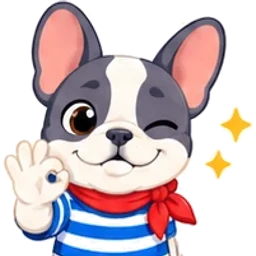
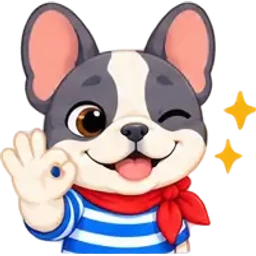
Thay 20 sticker Leon bằng bộ ảnh mới chất lượng cao (nền trong suốt gốc, tách theo khối), thêm 4 cảm xúc mới: Thắc mắc, Quyết tâm, Vui quá, Mỉm cười

diff --git a/src/shared/leon.jsx b/src/shared/leon.jsx
@@ -29,6 +29,10 @@ export const STICKER = [
   ["yeah", () => tr("Yeah!", "Youpi !", "Yay!")],
   ["ok", () => tr("OK!", "D'accord !", "OK!")],
   ["phap", () => tr("Học tiếng Pháp cùng Fracile!", "Le français avec Fracile !", "French with Fracile!")],
+  ["hoi", () => tr("Thắc mắc", "Une question ?", "A question?")],
+  ["quyet-tam", () => tr("Quyết tâm!", "Déterminé !", "Determined!")],
+  ["cuoi-lon", () => tr("Vui quá!", "Trop content !", "So happy!")],
+  ["mim-cuoi", () => tr("Mỉm cười", "Sourire", "Smile")],
 ];
 const CO = new Set(STICKER.map((s) => s[0]).concat(["leon", "dau"]));
 export const nhanSticker = (id) => STICKER.find((s) => s[0] === id)?.[1]() ?? "Leon";
@@ -74,7 +78,7 @@ export function ChuCoSticker({ text, size = 72 }) {
 /* Bảng chọn sticker (giáo viên chèn vào nhận xét, học sinh gửi trong Hỏi Leon). */
 export function BangSticker({ onChon, className = "" }) {
   return (
-    <div className={`grid grid-cols-5 gap-1 ${className}`}>
+    <div className={`grid grid-cols-6 gap-1 ${className}`}>
       {STICKER.map(([id, nhan]) => (
         <button key={id} type="button" onClick={() => onChon(id)} title={nhan()}
           className="grid cursor-pointer place-items-center rounded-xl border-0 bg-transparent p-1 transition-transform hover:-translate-y-0.5 hover:bg-surface2">

diff --git a/supabase/functions/hoi-leon/index.ts b/supabase/functions/hoi-leon/index.ts
@@ -25,7 +25,7 @@ const laOpenAI = (m: string) => /^(gpt-|o\d)/.test(m);
 const HAN_MUC = 10;
 const TRAN_CAU_HOI = 1000;
 const CAM = ["chao", "nhay-mat", "tuyet-voi", "duoc-do", "yeu-qua", "hum", "suy-nghi", "gian", "buon", "ngac-nhien",
-  "haha", "buon-ngu", "lam-viec", "hoc", "co-len", "tam-biet", "xin-loi", "yeah", "ok", "phap"];
+  "haha", "buon-ngu", "lam-viec", "hoc", "co-len", "tam-biet", "xin-loi", "yeah", "ok", "phap", "hoi", "quyet-tam", "cuoi-lon", "mim-cuoi"];
 const dauNgayVN = () => {
   const vn = new Date(Date.now() + 7 * 3600_000);
   return new Date(Date.UTC(vn.getUTCFullYear(), vn.getUTCMonth(), vn.getUTCDate()) - 7 * 3600_000).toISOString();
